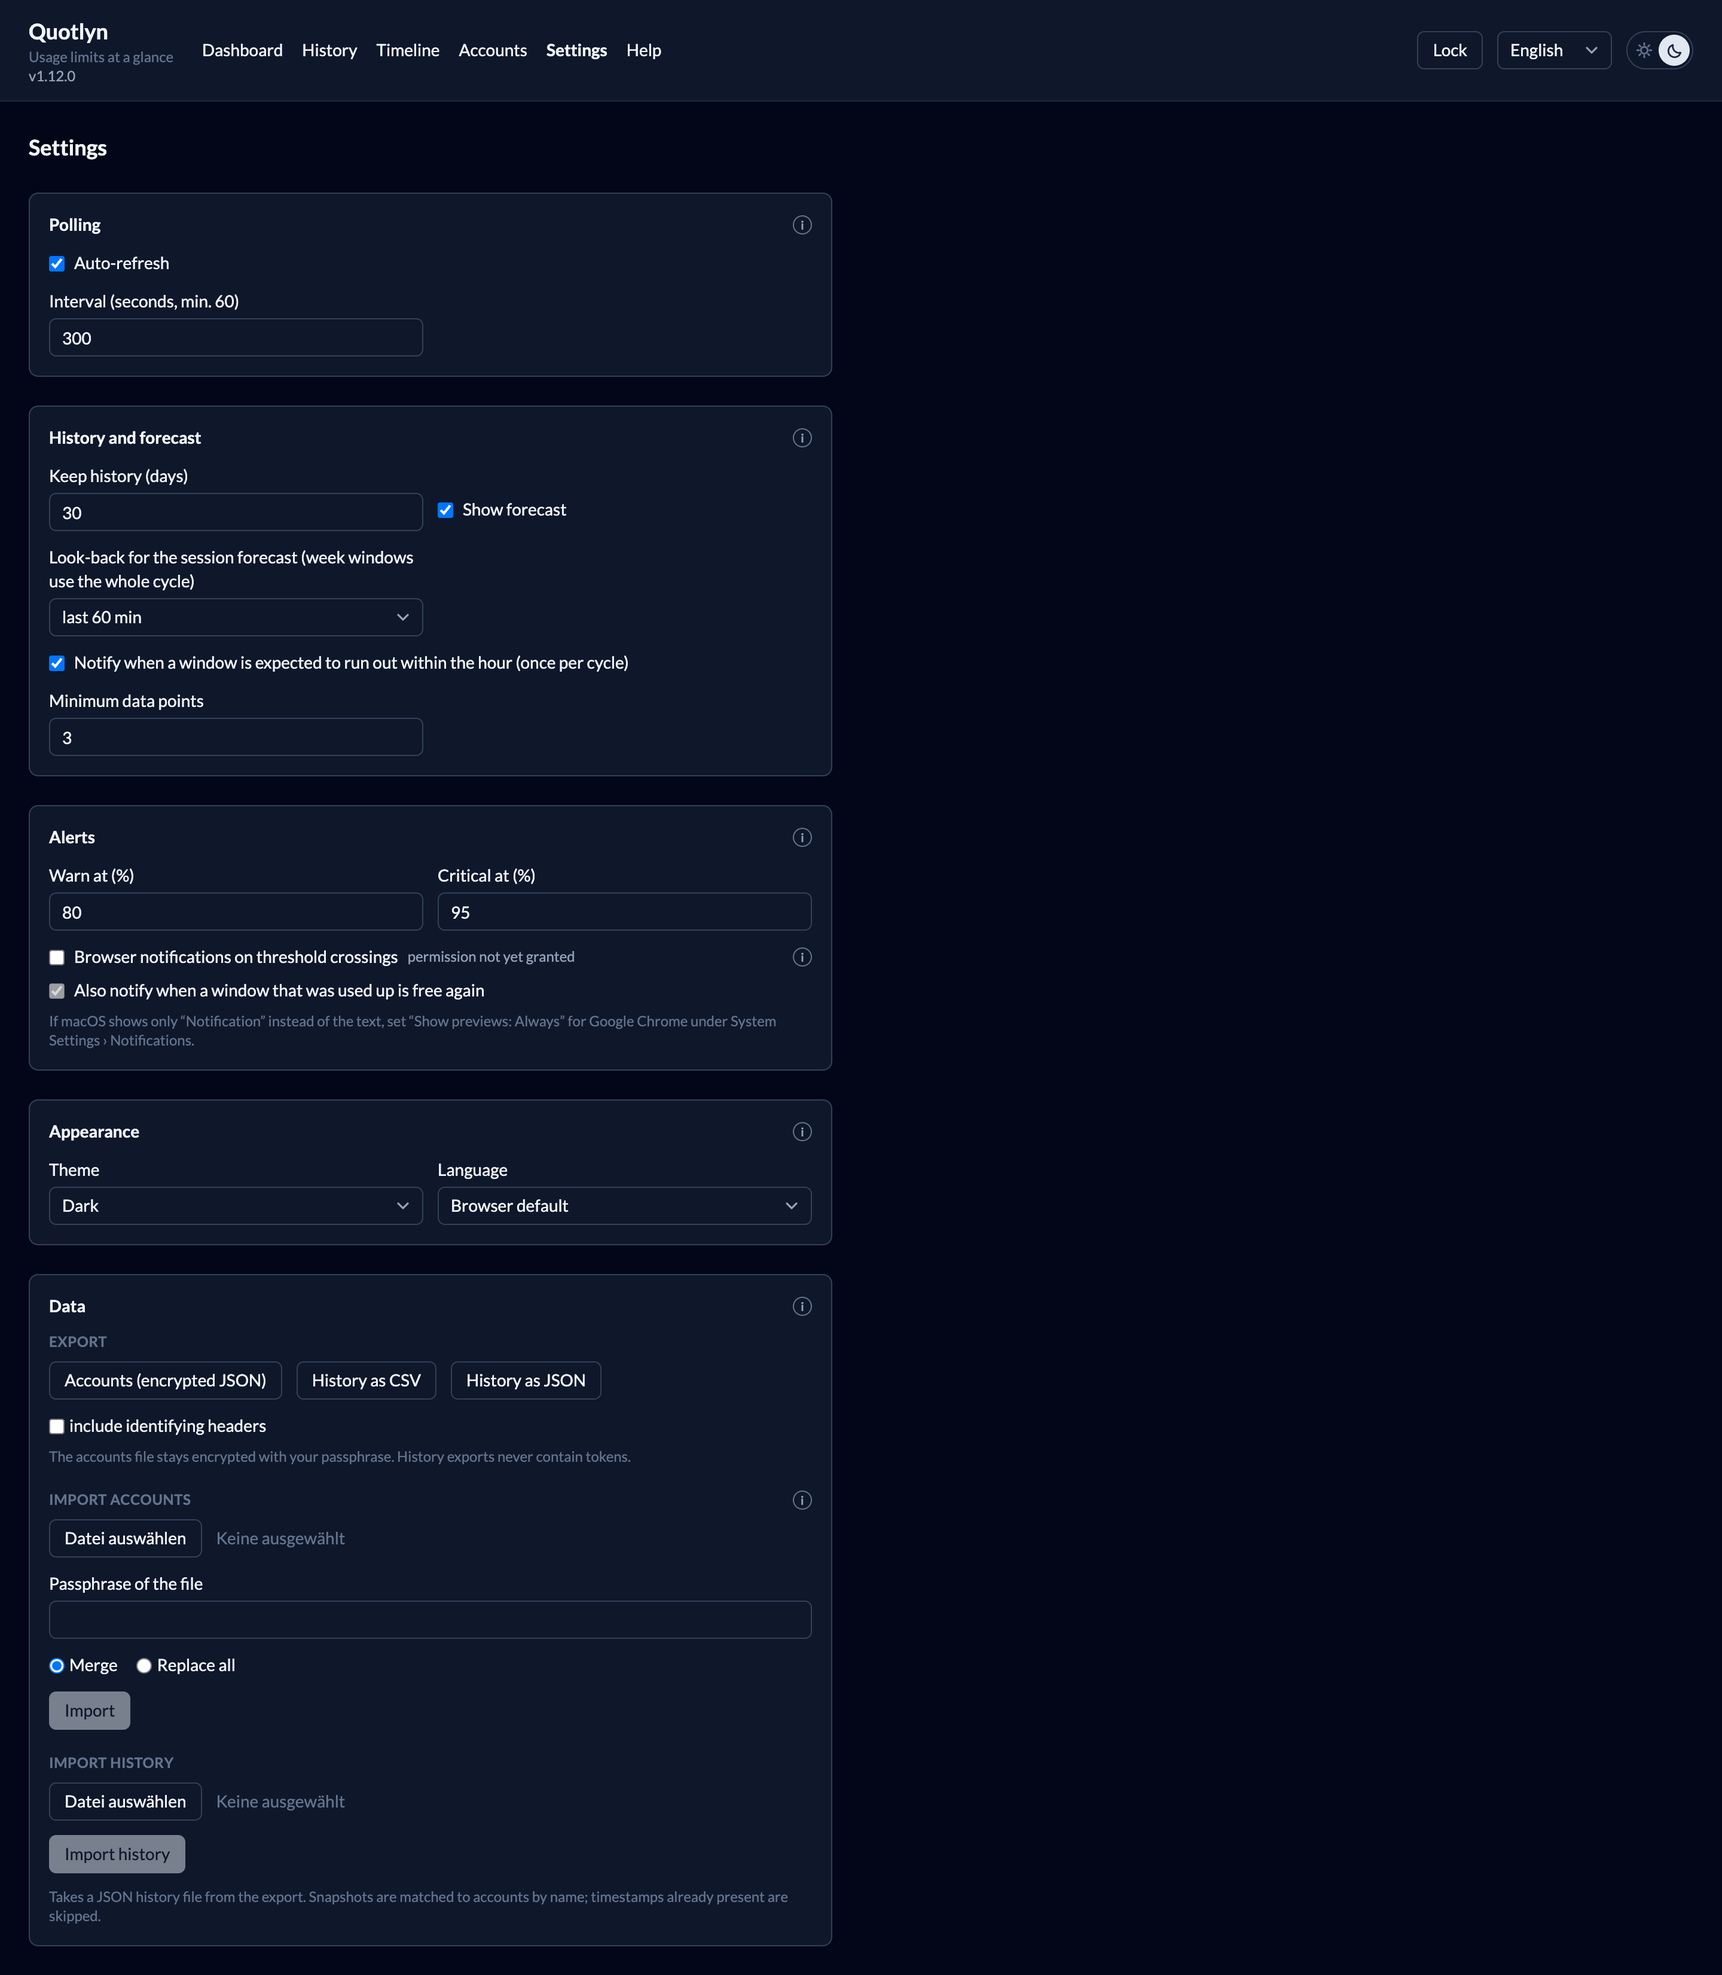
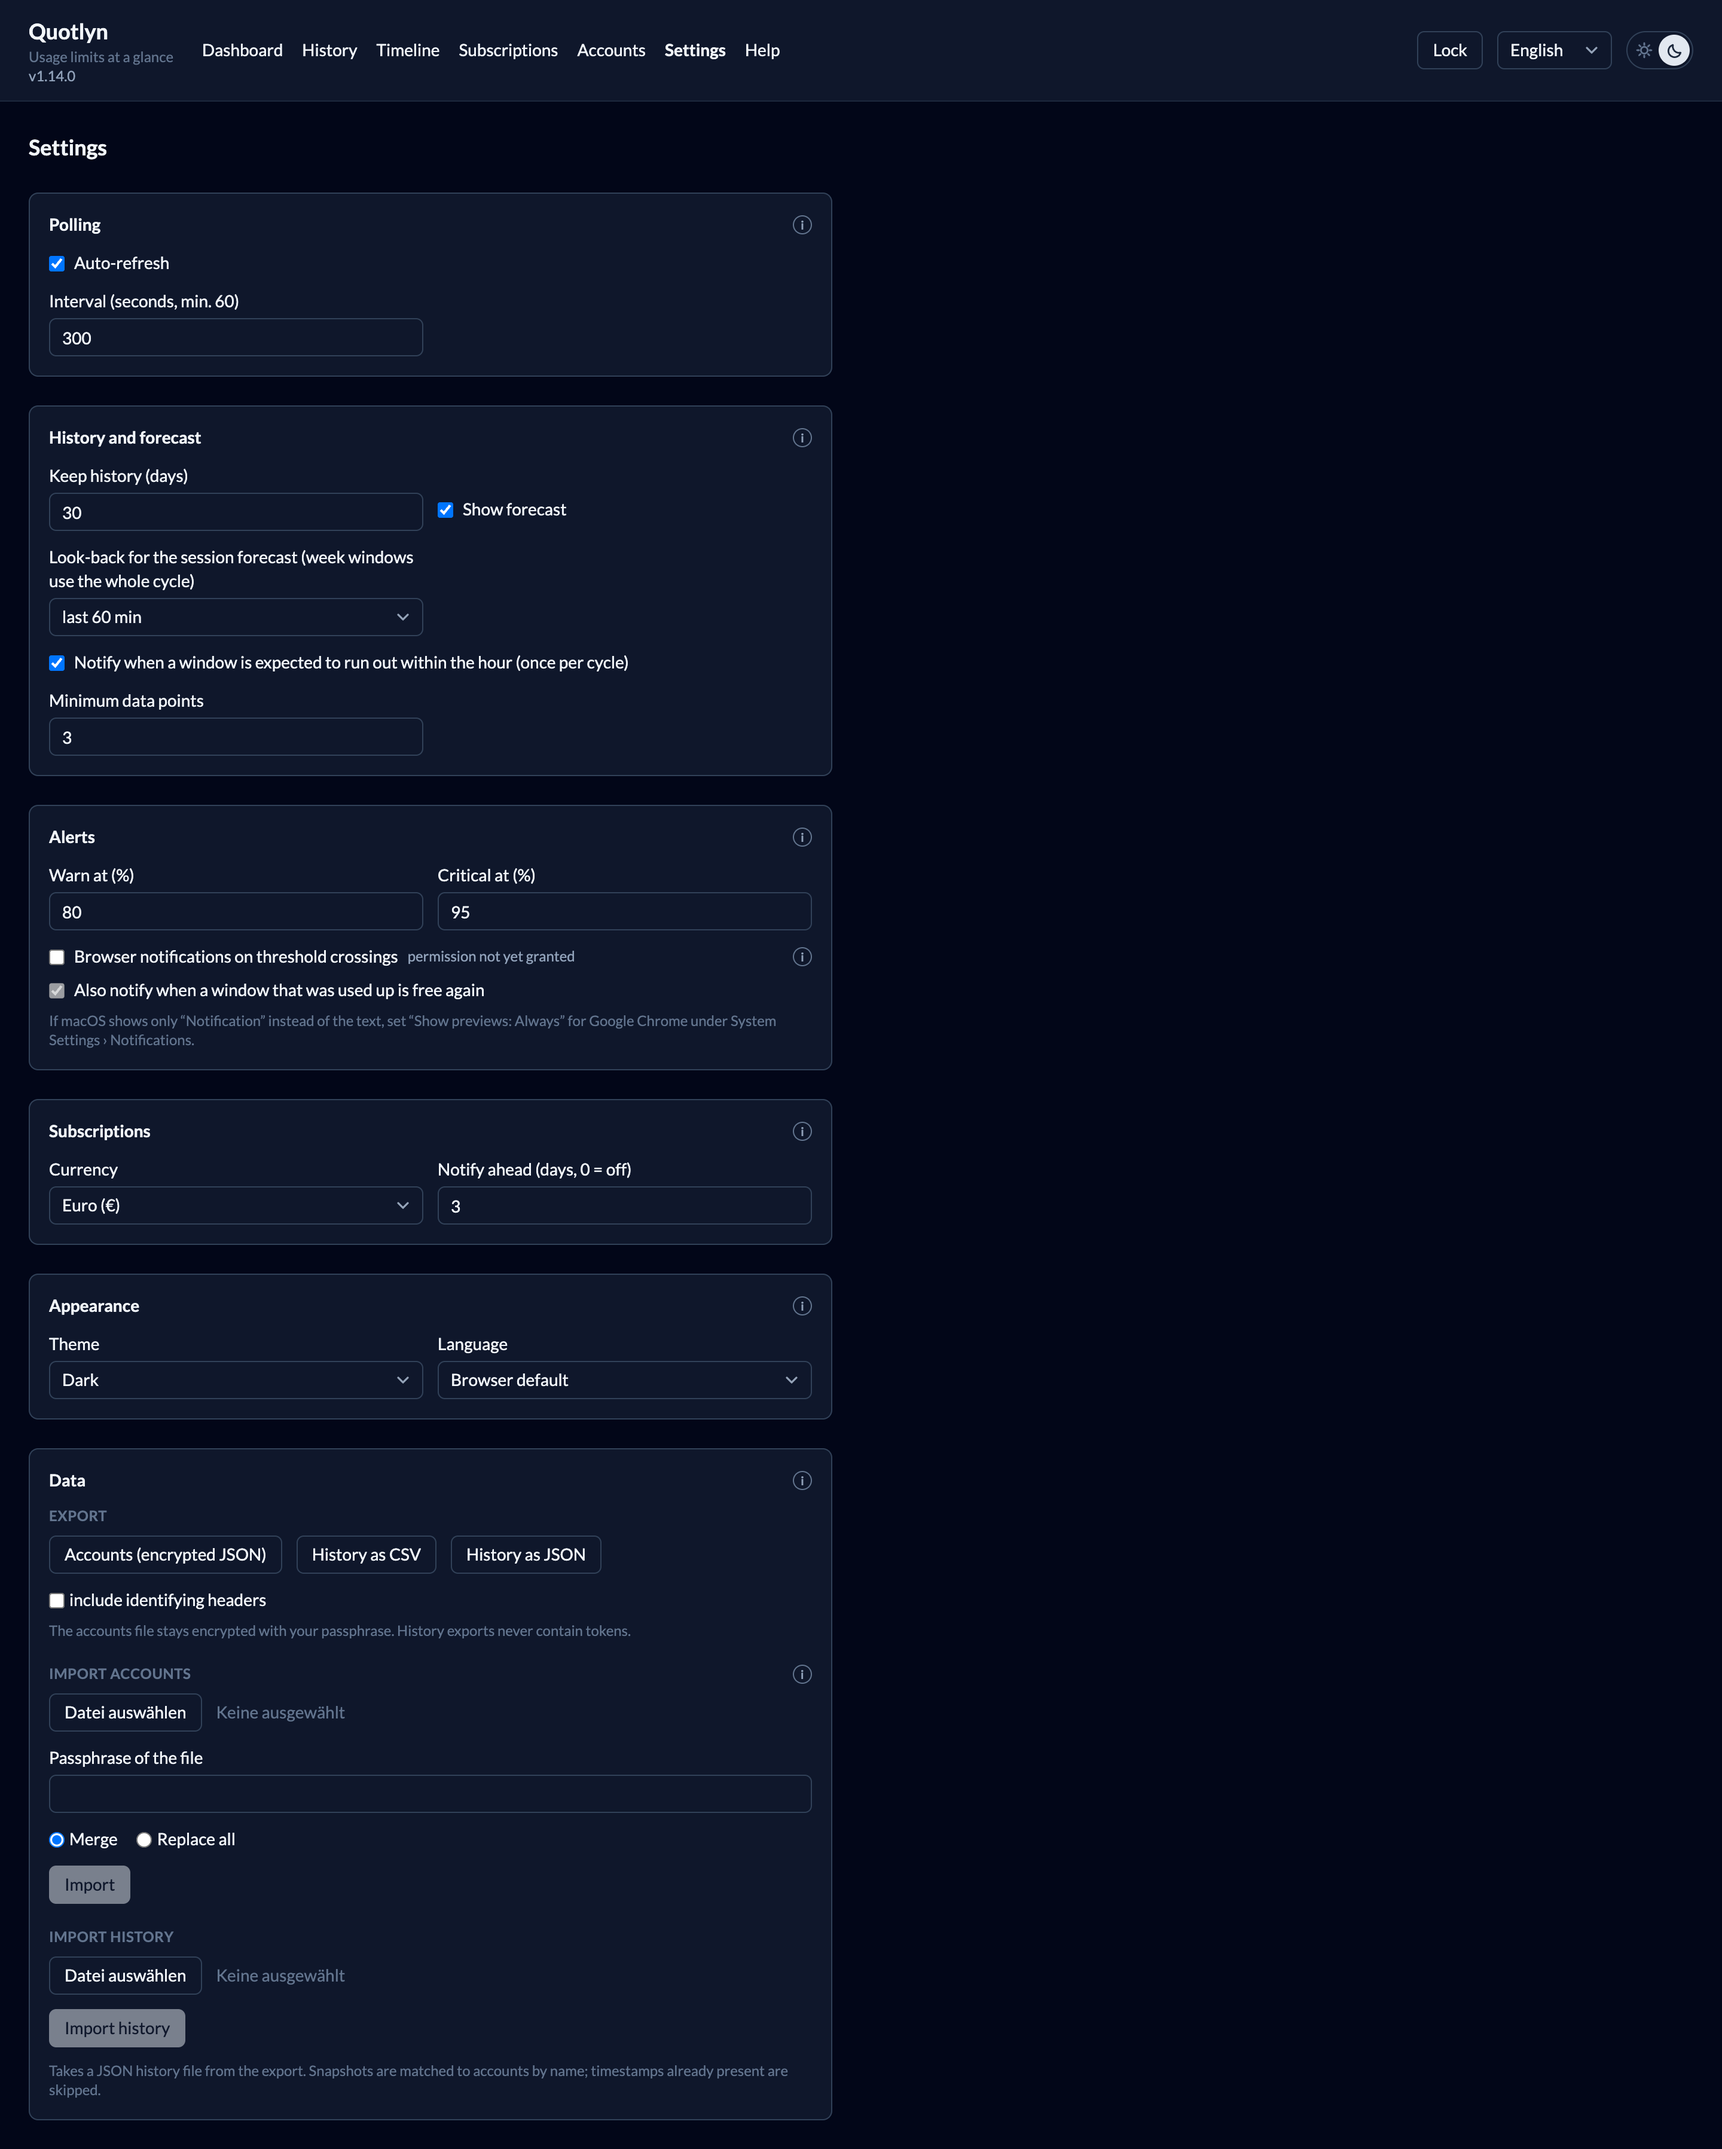
docs: screenshots and feature table for subscriptions

diff --git a/README.md b/README.md
@@ -169,6 +169,20 @@ that as *Limit reached* with the current numbers rather than as an error.
     <td valign="top"><b>Whose account is this.</b> A billing account under the name and a note on who uses it, folded into the card's footer. Show the billing account in full, masked down to its first and last characters, or keep it off the cards while timeline and history still show it.</td>
     <td valign="top"><b>Two, three or four to a row.</b> Pick how many cards share a row. The count is an upper bound, so narrower windows still step down and the cards stay readable.</td>
   </tr>
+  <tr>
+    <td><picture>
+  <source media="(prefers-color-scheme: dark)" srcset="docs/screenshots/feature-subscriptions.png">
+  <img src="docs/screenshots/light/feature-subscriptions.png" alt="Subscriptions page with monthly cost, next date and usage per billing month">
+</picture></td>
+    <td><picture>
+  <source media="(prefers-color-scheme: dark)" srcset="docs/screenshots/feature-subscription-card.png">
+  <img src="docs/screenshots/light/feature-subscription-card.png" alt="Card header with a badge saying the subscription ends in twelve days">
+</picture></td>
+  </tr>
+  <tr>
+    <td valign="top"><b>What the subscriptions cost.</b> Monthly total of what keeps running, the next renewal or end, and per account how much of the weekly limit a billing month used and what one percentage point of it cost.</td>
+    <td valign="top"><b>Renewal and end in sight.</b> A badge on the card before a renewal and while a cancelled subscription runs out, a subscription row in the timeline and a line in the history.</td>
+  </tr>
 </table>
 
 ## What you see
@@ -238,6 +252,11 @@ Give an account its renewal day, plan and monthly price, and Quotlyn keeps track
 - **On the card.** A badge next to the name when a renewal is less than a week away, while a cancelled subscription runs out, and once it has expired.
 - **Notification.** Once per account and date, a set number of days before a renewal or the end (three by default, 0 turns it off).
 - **Subscriptions page.** Monthly total of what keeps running (a switch counts cancelled subscriptions in until they end), the next date, and per account the average weekly limit used in this and the previous billing month (every week counts with its peak of the all-models window) and the price per percentage point of it. Prices in euros or US dollars.
+
+<picture>
+  <source media="(prefers-color-scheme: dark)" srcset="docs/screenshots/subscriptions.png">
+  <img src="docs/screenshots/light/subscriptions.png" alt="Subscriptions page">
+</picture>
 
 ### Accounts and settings
 
